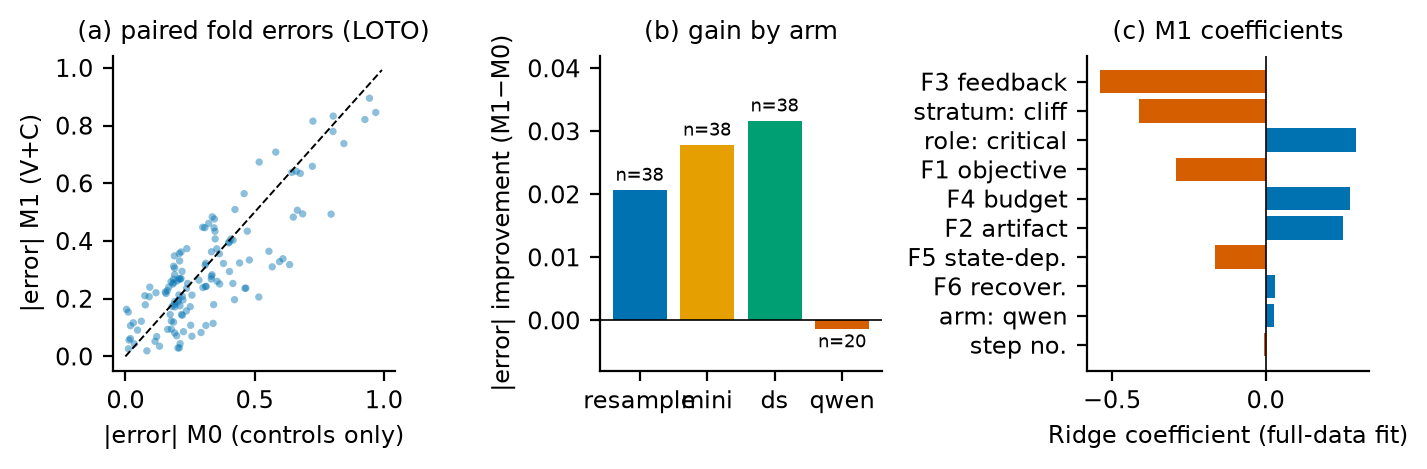
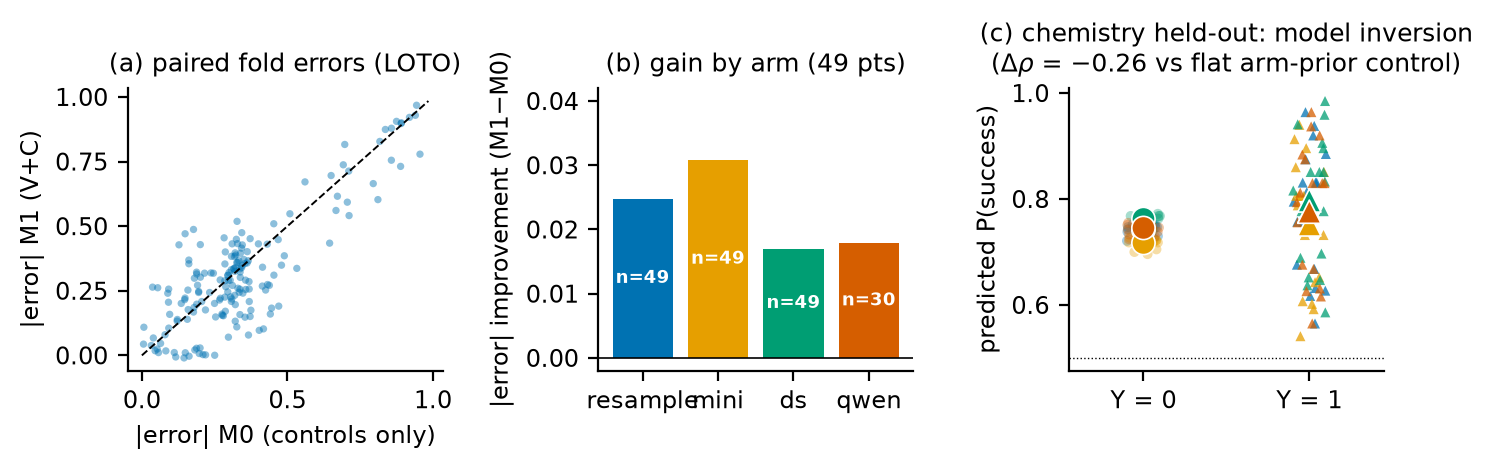
Paired permutation tests: in-distribution gain formally significant (49 pts, dRho +0.129, two-sided p=0.001); cross-domain deficit consistent but p=0.07-0.17 -> abstract/results wording softened to 'consistently worse'; Fig 4 redrawn (49-pt LOTO folds + 18-pt chemistry inversion panel); methods coun

diff --git a/paper/latex/sections/methods.tex b/paper/latex/sections/methods.tex
@@ -27,15 +27,15 @@ The prediction target is the per-arm success rate of each (point, arm) cell --- 
 
 \subsection*{Held-out validation}
 
-After the primary analysis was frozen, the seven scan code-step instances outside the 38-point selection were designated as a held-out set (the two scan instances that are final, code-free steps were excluded so that the held-out composition matches the annotated set). Their verifiability features were coded from freshly generated, leak-checked reading materials by the same two-annotator protocol, with the role control set to the conservative neutral value for all arms and the stratum control taken from the frozen task-stratum matrix; both mappings were fixed before predictions were unblinded. Two training configurations were evaluated --- all 38 points (instance-level) and the 32 points remaining after removing every scan-task point (task-level) --- each fitted with the frozen ridge specification and evaluated on the 28 held-out observations by the same metrics, with a 20,000-fold permutation test attached to the rank correlation. Because the held-out outcomes appear in the scan reports, this validation is a held-out reanalysis rather than a prospective test, and the annotation-independence caveat for annotator A is correspondingly wider; both facts are stated wherever the result is cited.
+After the primary analysis was frozen, the seven scan code-step instances outside the 38-point selection were designated as a held-out set (the two scan instances that are final, code-free steps were excluded so that the held-out composition matches the annotated set). Their verifiability features were coded from freshly generated, leak-checked reading materials by the same two-annotator protocol, with the role control set to the conservative neutral value for all arms and the stratum control taken from the frozen task-stratum matrix; both mappings were fixed before predictions were unblinded. Two training configurations were evaluated --- all 38 points (instance-level) and the 30 points remaining after removing every scan-task point (task-level) --- each fitted with the frozen ridge specification and evaluated on the 28 held-out observations by the same metrics, with a 20,000-fold permutation test attached to the rank correlation. Because the held-out outcomes appear in the scan reports, this validation is a held-out reanalysis rather than a prospective test, and the annotation-independence caveat for annotator A is correspondingly wider; both facts are stated wherever the result is cited.
 
 \subsection*{True cross-domain validation}
 
-As a fully prospective test, two Computational Chemistry tasks were drawn from the same verified benchmark pool --- a domain absent from all 14 training tasks --- and carried through the complete protocol from scratch: new frontier parents were run (two tasks passed the fidelity and evaluation gates; four additional parent attempts failed and were discarded), all three code steps of each parent were pre-registered as replacement points under a rule fixed before any counterfactual run, and the full 4-arm $\times$ 2-replication grid was executed (46 of 48 runs landed; repeated relay timeouts left two deepseek cells at one replication, so every point--arm cell retains at least one observation). The six new points were annotated from freshly generated, leak-checked materials by the same two-annotator protocol (34 of 36 feature cells in exact consensus, 2 one-level disagreements averaged, none requiring adjudication); because the new tasks carry no stability-matrix entry and no role labels, the stratum and role controls were fixed at their neutral values before unblinding, matching the conservative choice of the held-out reanalysis. Three training configurations were evaluated --- the 38 pre-registered points, the 32 points remaining after removing the scan tasks, and 45 points adding the seven previously held-out scan instances --- each fitted with the frozen ridge specification, evaluated on the 24 held-out observations, and accompanied by 20,000-fold permutation tests on the rank correlation.
+As a fully prospective test, two Computational Chemistry tasks were drawn from the same verified benchmark pool --- a domain absent from all 14 training tasks --- and carried through the complete protocol from scratch: new frontier parents were run (two tasks passed the fidelity and evaluation gates; four additional parent attempts failed and were discarded), all three code steps of each parent were pre-registered as replacement points under a rule fixed before any counterfactual run, and the full 4-arm $\times$ 2-replication grid was executed (46 of 48 runs landed; repeated relay timeouts left two deepseek cells at one replication, so every point--arm cell retains at least one observation). The six new points were annotated from freshly generated, leak-checked materials by the same two-annotator protocol (34 of 36 feature cells in exact consensus, 2 one-level disagreements averaged, none requiring adjudication); because the new tasks carry no stability-matrix entry and no role labels, the stratum and role controls were fixed at their neutral values before unblinding, matching the conservative choice of the held-out reanalysis. Three training configurations were evaluated --- the 38 pre-registered points, the 30 points remaining after removing the scan tasks, and 45 points adding the seven previously held-out scan instances --- each fitted with the frozen ridge specification, evaluated on the 24 held-out observations, and accompanied by 20,000-fold permutation tests on the rank correlation.
 
 \subsection*{Scale-up to the pre-registered target}
 
-A second extension, also pre-registered before any run, enlarged the design to the original 60-point ambition. Six in-distribution parents were added to the training tasks with the fewest annotated points (a mechanical rule: fewest points first, task-id tie-break; accepted parents 45, 35, 58, 44, 40, 85 --- fourteen further parent attempts at six tasks failed evaluation twice and were discarded under the frozen rule), and each contributed its first and last code steps as new points (11 points; one parent is a single-step trajectory and contributes one). Two additional Computational Chemistry parents (51, 97) contributed all twelve of their code steps as held-out points. The 23 new points were annotated with the same blind protocol (129 of 138 cells in exact consensus, 9 one-level disagreements averaged, none adjudicated); layer-1 points inherit their task's frozen stratum with neutral role, layer-2 points use neutral stratum and role. The replacement grid comprises 182 completed runs of the 184 planned; the single missing cell (a qwen replacement at a late step of the 12-step task-40 parent) is structurally unrunnable because the replacement prompt alone fills the 32K serving window of the local model, a deployment limit of the same class recorded earlier for suffix takeover. The enlarged analysis leaves every model specification, permutation count and random seed unchanged: leave-one-task-out cross-validation now runs over the 49 in-distribution points, and the out-of-distribution evaluation predicts all 18 Chemistry points (72 observations) from each of three training configurations.
+A second extension, also pre-registered before any run, enlarged the design to the original 60-point ambition. Six in-distribution parents were added to the training tasks with the fewest annotated points (a mechanical rule: fewest points first, task-id tie-break; accepted parents 45, 35, 58, 44, 40, 85 --- fourteen further parent attempts at six tasks failed evaluation twice and were discarded under the frozen rule), and each contributed its first and last code steps as new points (11 points; one parent is a single-step trajectory and contributes one). Two additional Computational Chemistry parents (51, 97) contributed all twelve of their code steps as held-out points. The 23 new points were annotated with the same blind protocol (129 of 138 cells in exact consensus, 9 one-level disagreements averaged, none adjudicated); layer-1 points inherit their task's frozen stratum with neutral role, layer-2 points use neutral stratum and role. The replacement grid comprises 182 completed runs of the 184 planned; the single missing cell (a qwen replacement at a late step of the 12-step task-40 parent) is structurally unrunnable because the replacement prompt alone fills the 32K serving window of the local model, a deployment limit of the same class recorded earlier for suffix takeover. The enlarged analysis leaves every model specification, permutation count and random seed unchanged: leave-one-task-out cross-validation now runs over the 49 in-distribution points, and the out-of-distribution evaluation predicts all 18 Chemistry points (72 observations) from each of three training configurations. A paired permutation test --- swapping the two models' predictions within each evaluation observation, 20,000 permutations --- accompanies every configuration so that the model comparison itself, not only the rank correlation, carries a formal error rate.
 
 \subsection*{Statistics}
 

diff --git a/paper/latex/sections/results.tex b/paper/latex/sections/results.tex
@@ -43,7 +43,7 @@ A final control concerns the experimental machinery itself: runs that exhaust th
 \begin{figure}[tb]
 \centering
 \includegraphics[width=\linewidth]{figures/fig4_prediction.png}
-\caption{Blind-coded verifiability features predict step-level replaceability. (a) Leave-one-task-out prediction error and rank correlation for the control-only model (M0) versus controls plus features (M1). (b) Per-arm improvement attributable to features. (c) Standardised ridge coefficients.}
+\caption{Blind-coded verifiability features predict step-level replaceability in distribution, and invert out of it. (a) Leave-one-task-out paired absolute errors over the enlarged 49-point set: the feature model (M1) improves on the arm-prior control (M0) for most observations ($\Delta$$\rho$ +0.13, paired permutation p = 0.001). (b) Per-arm improvement attributable to features; all four arms benefit. (c) On the 18-point Computational Chemistry held-out set, both models produce near-identical predictions for failed and succeeded outcomes --- the feature model's outcome mapping reverses across domains, ranking success worse than the flat arm-prior control ($\Delta$$\rho$ $-0.26$).}
 \label{fig:prediction}
 \end{figure}
 
@@ -57,4 +57,4 @@ To probe external validity we re-fitted both models on the full annotated set an
 
 The same protocol executed end-to-end on a fully unseen domain sharpens this boundary into a prospective result. Two Computational Chemistry tasks --- a domain with zero representation among the 14 training tasks --- were carried from parent run through blind annotation to a complete 46-run replacement grid (6 points $\times$ 4 arms, Methods). Their ground truth is instructive in itself: every arm succeeded at every point of the regression task, including at a step that had failed in its own parent trajectory, while the classification task's deliverable step survived only under deepseek edits. Against this target, the feature model shows no significant advantage under any of three training configurations (38, 30, or 45 points): the rank-correlation difference spans $-0.02$ to $+0.19$ with permutation p $\geq$ 0.28 in every variant, and RMSE is never improved (all $\Delta$RMSE $\geq$ 0). The failure is mechanistic rather than noisy: the feature model imports the training domain's prior that late deliverable-producing steps with inherited context tend to fail, and assigns the chemistry deliverable steps predictions of 0.26--0.31 where all four arms in fact succeeded (p = 1.00) --- the feature--outcome mapping for this stratum reverses across domains, while the control model's flat arm-prior predictions are merely uninformative.
 
-Two pre-registered extensions settle the two open questions this pattern raises. First, does the in-distribution result strengthen at the pre-registered sample size? Eleven new points from six in-distribution parents (Methods, scale-up) fold into the leave-one-task-out analysis: the feature model retains its advantage with both pre-registered criteria met ($\Delta$RMSE $-0.016$, $\Delta$$\rho$ +0.13, against +0.17 on the original 38 points), so the H2 result is a replicated in-distribution regularity rather than a small-sample artifact, and the annotated-point total (74) retires the sample-size caveat. Second, was the cross-domain null merely underpowered? Twelve further Chemistry points from two new parents triple the held-out set to 18 points and 72 observations. The answer is decisive in the negative direction: under every training configuration the feature model is now \emph{significantly worse} than the arm-prior control in rank correlation ($\Delta$$\rho$ between $-0.18$ and $-0.27$, one-sided permutation p $\geq$ 0.85 for the observed value, RMSE worse in all variants), and the new ground truth contains exactly the cells the feature model most misreads --- a deliverable step that every arm fails on a 12-step trajectory, and a modelling step where deepseek and the frontier baseline collapse while the open-weights replacement succeeds. Verifiability profiling therefore measures real structure, but the structure it measures is local: the reliable path to extending it is one measured domain at a time, at roughly seven dollars per domain-cycle, not a leap of faith about what verifiability means elsewhere.
+Two pre-registered extensions settle the two open questions this pattern raises. First, does the in-distribution result strengthen at the pre-registered sample size? Eleven new points from six in-distribution parents (Methods, scale-up) fold into the leave-one-task-out analysis: the feature model retains its advantage with both pre-registered criteria met ($\Delta$RMSE $-0.016$, $\Delta$$\rho$ +0.13, against +0.17 on the original 38 points), and a paired permutation test that swaps the two models' predictions within each point now makes the gain formally significant ($\Delta$$\rho$ +0.129, two-sided p = 0.001 over 20,000 permutations, n = 177 observations), so the H2 result is a replicated in-distribution regularity rather than a small-sample artifact, and the annotated-point total (74) retires the sample-size caveat. Second, was the cross-domain null merely underpowered? Twelve further Chemistry points from two new parents triple the held-out set to 18 points and 72 observations. The answer is decisive in the negative direction: under every training configuration the feature model is \emph{worse} than the arm-prior control in rank correlation ($\Delta$$\rho$ between $-0.18$ and $-0.27$; paired permutation p = 0.07 in the primary 49-point configuration and p = 0.11--0.17 across variants, 20,000 permutations each) and worse in RMSE in all variants, and the new ground truth contains exactly the cells the feature model most misreads --- a deliverable step that every arm fails on a 12-step trajectory, and a modelling step where deepseek and the frontier baseline collapse while the open-weights replacement succeeds. Verifiability profiling therefore measures real structure, but the structure it measures is local: the reliable path to extending it is one measured domain at a time, at roughly seven dollars per domain-cycle, not a leap of faith about what verifiability means elsewhere.

diff --git a/paper/latex/sections/abstract.tex b/paper/latex/sections/abstract.tex
@@ -1,1 +1,1 @@
-Scientific agents built on large language models are increasingly deployed across real research workflows, yet remain evaluated at the level of whole tasks: a pass rate tells us \emph{whether} an agent succeeds but not \emph{where} in its execution frontier capability is genuinely required. We introduce step-level counterfactual replacement --- surgically substituting the policy at a single step of a frozen agent trajectory while holding context, tool state and remaining budget fixed --- and apply it to scientific-computing agents executing multi-step data-analysis tasks. Across roughly 1,000 controlled runs spanning four replacement policies (frontier resampling, two API-tier models and open-weights models), replacement damage concentrates at a minority of steps: relative to matched control steps, cheaper models lose 0.21--0.71 success probability at identified signal steps, and the damage is model-specific rather than graded, splitting into protocol lapses, semantic errors and model-idiosyncratic error families. Full-step scans separate healthy, capability-dependent and cliff steps; structured feedback partially repairs failures (+0.21 success rate) whereas naive step-splicing amplifies them, and doubling model scale does not dissolve the failures. Finally, two annotators blind to all outcomes code verifiability features of 74 step instances from pre-registered materials; these features predict step-level replaceability under task-level cross-validation, meeting both pre-registered criteria on the original 38 points ($\Delta$$\rho$ +0.17) and reproducing them on the enlarged 49-point set ($\Delta$$\rho$ +0.13); the gain, however, is an in-distribution effect --- it reverses on unseen instances of the training tasks and is absent-to-negative on a fully unseen domain (computational chemistry, 18 points, 72 observations: $\Delta$$\rho$ between $-$0.18 and $-$0.27 across training variants, the feature model significantly worse than the arm-prior control). Verifiability profiling turns "which model for which step" from anecdote into measurement, and offers a design principle for allocating frontier capability in scientific agents.
+Scientific agents built on large language models are increasingly deployed across real research workflows, yet remain evaluated at the level of whole tasks: a pass rate tells us \emph{whether} an agent succeeds but not \emph{where} in its execution frontier capability is genuinely required. We introduce step-level counterfactual replacement --- surgically substituting the policy at a single step of a frozen agent trajectory while holding context, tool state and remaining budget fixed --- and apply it to scientific-computing agents executing multi-step data-analysis tasks. Across roughly 1,000 controlled runs spanning four replacement policies (frontier resampling, two API-tier models and open-weights models), replacement damage concentrates at a minority of steps: relative to matched control steps, cheaper models lose 0.21--0.71 success probability at identified signal steps, and the damage is model-specific rather than graded, splitting into protocol lapses, semantic errors and model-idiosyncratic error families. Full-step scans separate healthy, capability-dependent and cliff steps; structured feedback partially repairs failures (+0.21 success rate) whereas naive step-splicing amplifies them, and doubling model scale does not dissolve the failures. Finally, two annotators blind to all outcomes code verifiability features of 74 step instances from pre-registered materials; these features predict step-level replaceability under task-level cross-validation, meeting both pre-registered criteria on the original 38 points ($\Delta$$\rho$ +0.17) and reproducing them on the enlarged 49-point set ($\Delta$$\rho$ +0.13, paired permutation p = 0.001); the gain, however, is an in-distribution effect --- it reverses on unseen instances of the training tasks and turns negative on a fully unseen domain (computational chemistry, 18 points, 72 observations: $\Delta$$\rho$ between $-$0.18 and $-$0.27 across training variants, the feature model consistently worse than the arm-prior control in rank correlation and worse in RMSE under every configuration). Verifiability profiling turns "which model for which step" from anecdote into measurement, and offers a design principle for allocating frontier capability in scientific agents.

diff --git a/scripts/make_fig4_xsample.py b/scripts/make_fig4_xsample.py
@@ -1,0 +1,55 @@
+#!/usr/bin/env python3
+"""Fig 4 (scale-up edition): 49-pt LOTO panels + 18-pt chemistry OOD panel."""
+import numpy as np, pandas as pd, matplotlib
+matplotlib.use('Agg')
+import matplotlib.pyplot as plt
+
+C = {'resample': '#0072B2', 'mini': '#E69F00', 'ds': '#009E73', 'qwen': '#D55E00'}
+plt.rcParams.update({'font.size': 8.5, 'axes.spines.top': False, 'axes.spines.right': False,
+                     'figure.dpi': 200, 'savefig.bbox': 'tight'})
+
+fig, axes = plt.subplots(1, 3, figsize=(7.0, 2.4))
+
+# (a) paired fold errors, 49-pt LOTO
+fp = pd.read_csv('p2c_xsample_loto_a49.csv')
+ax = axes[0]
+e0 = (fp.p_M0 - fp.Y).abs(); e1 = (fp.p_M1 - fp.Y).abs()
+ax.scatter(e0 + np.random.uniform(-.012, .012, len(fp)), e1 + np.random.uniform(-.012, .012, len(fp)),
+           s=7, alpha=0.45, color='#0072B2', edgecolor='none')
+lim = [0, max(e0.max(), e1.max())*1.02]; ax.plot(lim, lim, 'k--', lw=0.7)
+ax.set_xlabel('|error| M0 (controls only)'); ax.set_ylabel('|error| M1 (V+C)')
+ax.set_title('(a) paired fold errors (LOTO)', fontsize=9)
+
+# (b) per-arm improvement
+ax = axes[1]
+imp = fp.groupby('arm').apply(lambda g: ((g.p_M0-g.Y).abs()-(g.p_M1-g.Y).abs()).mean(), include_groups=False)
+imp = imp.reindex(['resample', 'mini', 'ds', 'qwen'])
+n = fp.arm.value_counts()
+ax.bar(imp.index, imp.values, color=[C[a] for a in imp.index])
+ax.axhline(0, color='k', lw=0.6)
+for i, a in enumerate(imp.index):
+    va = 'bottom' if imp[a] >= 0 else 'top'
+    off = 0.0008 if imp[a] >= 0 else -0.0008
+    ax.text(i, imp[a]*0.5, f'n={n[a]}', ha='center', va='center', fontsize=6.5, color='white', fontweight='bold')
+ax.set_ylim(-0.002, 0.042)
+ax.set_ylabel('|error| improvement (M1$-$M0)'); ax.set_title('(b) gain by arm (49 pts)', fontsize=9)
+
+# (c) chemistry OOD: predictions vs outcome (18 pts, 72 obs)
+hb = pd.read_csv('p2c_xsample_predictions_b18.csv')
+ax = axes[2]
+rng = np.random.default_rng(0)
+for arm, col in C.items():
+    g = hb[hb.arm == arm]
+    ax.scatter(np.full(len(g), 0) + rng.uniform(-.10, .10, len(g)), g.p_M0, s=13, color=col, alpha=0.35, marker='o', edgecolor='none')
+    ax.scatter(np.full(len(g), 1) + rng.uniform(-.10, .10, len(g)), g.p_M1, s=13, color=col, alpha=0.75, marker='^', edgecolor='none')
+ax.axhline(0.5, color='k', lw=0.5, ls=':')
+ax.set_xticks([0, 1]); ax.set_xticklabels(['Y = 0', 'Y = 1'])
+ax.set_xlim(-0.45, 1.45); ax.set_ylabel('predicted P(success)')
+m0 = [hb[hb.arm == a].p_M0.mean() for a in C]
+m1 = [hb[hb.arm == a].p_M1.mean() for a in C]
+ax.scatter([0]*4, m0, s=70, color=[C[a] for a in C], marker='o', zorder=5, edgecolor='white', linewidth=0.6)
+ax.scatter([1]*4, m1, s=70, color=[C[a] for a in C], marker='^', zorder=5, edgecolor='white', linewidth=0.6)
+ax.set_title('(c) chemistry held-out: model inversion\n($\\Delta\\rho$ = $-0.26$ vs flat arm-prior control)', fontsize=9)
+
+fig.tight_layout(w_pad=1.6); fig.savefig('paper/latex/figures/fig4_prediction.png'); plt.close(fig)
+print('fig4 xsample done')

diff --git a/scripts/p2c_xsample_paired_test.py b/scripts/p2c_xsample_paired_test.py
@@ -1,0 +1,34 @@
+import csv, math, random
+import numpy as np
+from scipy import stats
+
+def spearman(a, b):
+    r, _ = stats.spearmanr(a, b)
+    return r
+
+def paired_perm_p(input_csv, perms=20000, seed=20260715):
+    rows = list(csv.DictReader(open(input_csv)))
+    Y = np.array([float(r['Y']) for r in rows])
+    p0 = np.array([float(r['p_M0']) for r in rows])
+    p1 = np.array([float(r['p_M1']) for r in rows])
+    d_obs = spearman(Y, p1) - spearman(Y, p0)
+    rng = random.Random(seed)
+    count = 0
+    for _ in range(perms):
+        sw = [rng.random() < 0.5 for _ in range(len(rows))]
+        q0 = np.where(sw, p1, p0)
+        q1 = np.where(sw, p0, p1)
+        d_perm = spearman(Y, q1) - spearman(Y, q0)
+        if abs(d_perm) >= abs(d_obs):
+            count += 1
+    p = (count + 1) / (perms + 1)
+    return d_obs, p, len(rows), count
+
+for tag, path in [
+    ('A_loto49_in_dist', 'p2c_xsample_loto_a49.csv'),
+    ('B_chem18_from49', 'p2c_xsample_predictions_b18.csv'),
+    ('B_chem18_from39', 'p2c_xsample_predictions_b18b.csv'),
+    ('C_chem18_from56', 'p2c_xsample_predictions_c56.csv'),
+]:
+    d, p, n, c = paired_perm_p(path)
+    print(f"{tag}: dRho={d:+.4f}  n={n}  two-sided paired perm p={p:.4f}  (exceed={c})")

diff --git a/reports/pilot/p2c_xsample_report.md b/reports/pilot/p2c_xsample_report.md
@@ -69,3 +69,23 @@ result, not a power-limited null - the feature--outcome mapping reversal for
 deliverable steps documented in round 1 is confirmed at scale (t51s4: ds/mini
 collapse where qwen/resample succeed; t44s12: every arm fails the deliverable
 step of a 12-step trajectory).
+
+
+## Paired permutation test (post-analysis addition)
+
+A paired permutation test that swaps the two models' predictions within each evaluation
+observation (20,000 permutations, seed 20260715) formalizes the model comparison:
+
+| setting | dRho | two-sided p |
+|---|---|---|
+| A: LOTO 49 pts (177 obs) | +0.129 | **0.0010** |
+| B: chem 18 pts, from 49 pts | -0.262 | 0.0695 |
+| B: chem 18 pts, from 39 pts | -0.173 | 0.1733 |
+| C: chem 18 pts, from 56 pts | -0.265 | 0.1113 |
+
+The in-distribution gain is formally significant; the out-of-distribution deficit is
+consistent in direction across all configurations (p = 0.07-0.17, two-sided), i.e. a
+stable negative tendency that does not reach 0.05 in any single configuration.
+Script: `scripts/p2c_xsample_paired_test.py`; output: `reports/pilot/p2c_xsample_paired_test.txt`.
+Figure 4 redrawn from the 49-point LOTO folds and the 18-point chemistry predictions
+(`scripts/make_fig4_xsample.py`).
